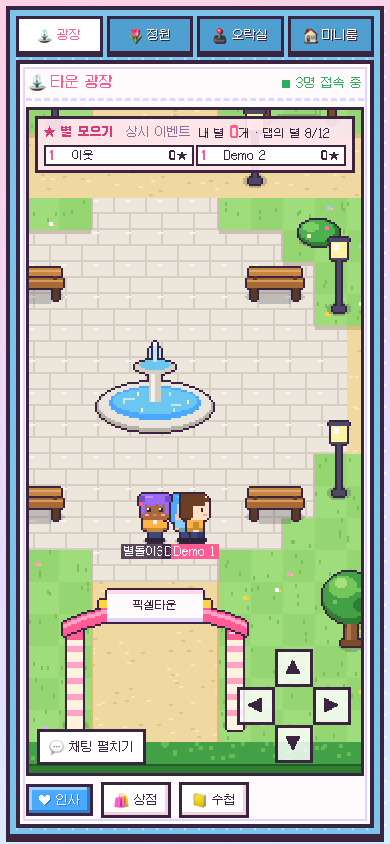
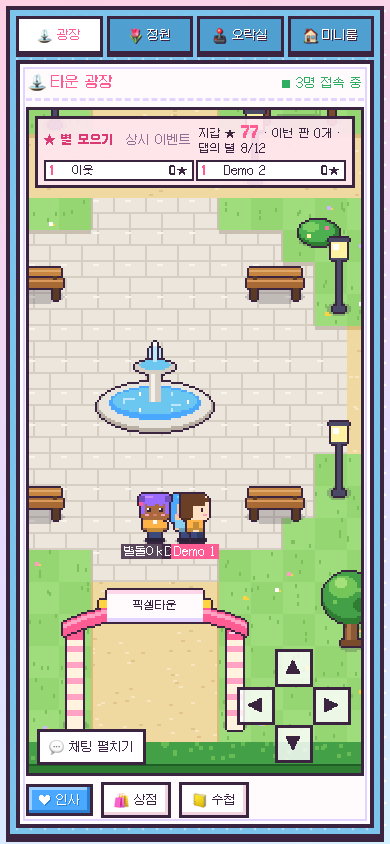
기능: 별을 먹는 즉시 지갑에 반영, 정산 대기 표시, "+1" 효과
별 보상이 3분 정산 뒤에야 지갑에 보여서 먹은 개수를 알 수 없었다. 저장
구조(주기별 결과·보상, outbox, match_id 멱등)는 그대로 두고 화면만 바꿨다.

- 주기별 내 점수 기록(snapshot·gameEnded) → 지갑 = 저장분 + 아직 inventory에
  없는 주기 점수. 정산·저장 뒤에도 숫자가 그대로
- "(정산 대기 n)" 표시, 상점은 저장분만 쓰고 대기분 안내
- 떠난 장소의 정산도 반영되도록 대기분이 있는 동안 20초마다 기록 재조회
- 수집 순간 "+1" 0.8초
- tests/wallet-check.mjs 추가(수집 즉시·정산 후 유지·장소 이동 후 유지)

검증: wallet-check 로컬 2회 PASS, UI 8/8.

diff --git a/game/src/main.jsx b/game/src/main.jsx
@@ -70,6 +70,8 @@ function App() {
   const stall = useRef({ x: 0, y: 0, n: 0 }), route = useRef([]), marker = useRef(null), state = useRef({ players: [], game: {} }), bubbles = useRef({}), emotes = useRef({});
   const trails = useRef({}), selfId = useRef("me"), soloPos = useRef(null), entry = useRef("default"), portalArmed = useRef(false), chatVisible = useRef(chatOpen);
   const [joinTry, setJoinTry] = useState(0), rejoining = useRef(false), lastAutoJoin = useRef(0);
+  // Stars I collected that are not in my inventory yet (settled every 3 minutes): period id -> my score in it.
+  const ledger = useRef({});
   const picked = useRef({}), corrections = useRef([]), persistStatus = useRef(null), chatInput = useRef(null), lastSent = useRef("");
   const profile = records.profiles[0], outfit = profile?.outfit || {};
   // First entry (FR-014): a signed-in user whose profile has no chosen look makes a character before joining a room.
@@ -78,6 +80,15 @@ function App() {
   const myLook = { ...outfit, ...profile?.avatar };
   const owned = useMemo(() => new Set(records.purchases.map(p => p.item)), [records.purchases]);
   const earned = records.inventory.reduce((n, i) => n + (i.quantity || 0), 0), wallet = earned - records.purchases.reduce((n, p) => n + (p.price || 0), 0);
+  // The wallet shows a star the moment the server counts it; the part not saved yet cannot be spent until settlement.
+  const savedPeriods = new Set(records.inventory.map(i => i.match_id));
+  const unsaved = Object.entries(ledger.current).reduce((n, [id, k]) => n + (savedPeriods.has(id) ? 0 : k), 0);
+  // Settlement happens in whichever zone room the stars were collected, maybe one I already left: look for it now and then.
+  useEffect(() => {
+    if (!unsaved) return;
+    const poll = setInterval(loadRecords, 20000);
+    return () => clearInterval(poll);
+  }, [unsaved > 0]);
   const placements = edit ? edit.placements : Array.isArray(profile?.room) ? profile.room : [];
   const home = useMemo(() => homeMap(placements), [JSON.stringify(placements)]);
   const map = zone === "home" ? home : getMap(zone), mapRef = useRef(map), profileRef = useRef(profile);
@@ -178,6 +189,8 @@ function App() {
           setPred(p, !pred.current || Math.hypot(p.x - pred.current.x, p.y - pred.current.y) > 40);
         }
         for (const p of data.players) if (p.id !== user.id) { const b = (trails.current[p.id] ||= []); b.push({ t: data.t, x: p.x, y: p.y }); if (b.length > 40) b.shift(); }
+        const my = data.game?.scores?.[user.id];
+        if (data.game?.id && my) ledger.current[data.game.id] = Math.max(ledger.current[data.game.id] || 0, my);
         state.current = data; setSnap(data);
         const p = data.persistence;
         if (p?.status === "saved" && persistStatus.current === "pending") { loadRecords(); notify("기록과 별 보상이 저장되었어요! 수첩에서 확인하세요."); }
@@ -185,7 +198,7 @@ function App() {
       });
       r.onMessage("chat", d => !cancelled && append({ id: d.id, name: d.name || "이웃", text: d.text, mine: d.id === user.id }));
       r.onMessage("emote", d => { if (!cancelled) emotes.current[d.id] = Date.now() + 2500; });
-      r.onMessage("gameEnded", m => { const n = m.scores?.[user.id]; if (n) { persistStatus.current = "pending"; notify(`별 ${n}개 정산! 기록을 저장하는 중이에요.`); } });
+      r.onMessage("gameEnded", m => { const n = m.scores?.[user.id]; if (n) ledger.current[m.match_id] = n; if (n) { persistStatus.current = "pending"; notify(`별 ${n}개 정산! 기록을 저장하는 중이에요.`); } });
       // While the socket is down nothing moves or predicts on its own and a dialog blocks the page.
       // 1. Drop: the SDK reconnects into the same server session (kept 15 s), so nothing is lost.
       // 2. That fails (session gone, socket refused) or hangs: join again automatically; the login is still valid.
@@ -316,7 +329,7 @@ function App() {
         if (me && touchesStar(me, star)) { picked.current[star.id] = { until: now + 1000, at: now, x: star.x, y: star.y }; return false; }
         return true;
       }) : [];
-      const pops = Object.values(picked.current).filter(p => now - p.at < 400);
+      const pops = Object.values(picked.current).filter(p => now - p.at < 800);
       view.draw(sc, { focus: me, avatars, stars, pops, time: t, dt, marker: marker.current });
       raf = requestAnimationFrame(frame);
     };
@@ -410,7 +423,7 @@ function App() {
   const starCard = (
     <section className="star-card" aria-label="별 모으기">
       <div className="star-card-head"><b>★ 별 모으기</b><span className="muted">상시 이벤트</span></div>
-      <p className="star-line">내 별 <b>{myScore}</b>개 · 맵의 별 {game.stars?.length || 0}/12</p>
+      <p className="star-line">지갑 ★ <b className="wallet-live">{wallet + unsaved}</b>{unsaved > 0 && <span className="pending" title="정산되면 상점에서 쓸 수 있어요"> (정산 대기 {unsaved})</span>} · 이번 판 {myScore}개 · 맵의 별 {game.stars?.length || 0}/12</p>
       <p className="star-line muted">{game.active ? `다음 정산까지 ${clock}` : "별 가까이 걸어가면 모아요"}</p>
       {ranking.length > 0 && <ol className="ranking">{ranking.slice(0, 3).map(p => <li key={p.id} className={p.id === selfId.current ? "mine" : ""}><span>{ranking.filter(q => q.score > p.score).length + 1}</span>{p.name}<b>{p.score}★</b></li>)}</ol>}
       {saving && <p className="save-state" role="status">{snap.persistence.lastError ? "기록 저장 재시도 중…" : "기록 저장 중…"}</p>}
@@ -420,11 +433,11 @@ function App() {
     <main className="page">
       <div className="hompy">
         <aside className="profile paper">
-          <div className="today">TODAY <b>{online}</b> <span>|</span> TOTAL <b>{totalStars}</b></div>
+          <div className="today">TODAY <b>{online}</b> <span>|</span> TOTAL <b>{totalStars + unsaved}</b></div>
           <Portrait player={me} />
           <h2 className="me-name">{me.name}</h2>
           <p className="mood">♪ {zoneInfo[3]}</p>
-          <div className="row-badges"><span className="stars-badge" title="쓸 수 있는 별">지갑 ★ {wallet}</span></div>
+          <div className="row-badges"><span className="stars-badge" title={unsaved ? `쓸 수 있는 별 ${wallet} + 정산 대기 ${unsaved}` : "쓸 수 있는 별"}>지갑 ★ {wallet + unsaved}</span></div>
           {zone !== "home" && starCard}
           <button className="btn wide" onClick={openShop}>🛍 별 상점 · 옷장</button>
           <button className="btn ghost wide" onClick={() => setSetup(true)}>🎨 캐릭터 꾸미기</button>
@@ -478,7 +491,7 @@ function App() {
           {status === "disconnected" && <div className="notebook-foot"><button className="btn wide" autoFocus onClick={() => { rejoining.current = true; setJoinTry(n => n + 1); }}>다시 연결</button></div>}
         </div>
       </div>}
-      {shop && <Shop {...{ wallet, owned, outfit, buy, wear, me, close: () => setShop(false) }} />}
+      {shop && <Shop {...{ wallet, unsaved, owned, outfit, buy, wear, me, close: () => setShop(false) }} />}
       {notebook && <Notebook {...{ records, recordError, loadRecords, me, close: () => setNotebook(false) }} />}
       {setup && <CharacterSetup profile={profile} userId={user.id} save={saveCharacter} close={() => setSetup(false)} />}
     </main>
@@ -531,13 +544,14 @@ function ItemIcon({ item, player }) {
   return <canvas ref={ref} width={64} height={64} className="item-icon" aria-hidden="true" />;
 }
 
-function Shop({ wallet, owned, outfit, buy, wear, me, close }) {
+function Shop({ wallet, unsaved, owned, outfit, buy, wear, me, close }) {
   const [tab, setTab] = useState("hat"), [busy, setBusy] = useState("");
   const run = async (id, fn) => { setBusy(id); try { await fn(); } finally { setBusy(""); } };
   return (
     <div className="sheet-backdrop" onClick={close}>
       <aside className="notebook shop paper" role="dialog" aria-label="별 상점" onClick={e => e.stopPropagation()}>
-        <div className="notebook-head"><b>🛍 별 상점 · 옷장</b><span className="stars-badge">지갑 ★ {wallet}</span><button className="btn tiny ghost" onClick={close} aria-label="상점 닫기">닫기</button></div>
+        <div className="notebook-head"><b>🛍 별 상점 · 옷장</b><span className="stars-badge" title="쓸 수 있는 별">지갑 ★ {wallet}</span><button className="btn tiny ghost" onClick={close} aria-label="상점 닫기">닫기</button></div>
+        {unsaved > 0 && <p className="shop-pending">정산 대기 ★{unsaved}: 3분마다 정산되면 쓸 수 있어요.</p>}
         <div className="shop-tabs" role="tablist">{SLOTS.map(([id, label]) => <button key={id} role="tab" aria-selected={tab === id} onClick={() => setTab(id)}>{label}</button>)}</div>
         <div className="notebook-body shop-grid">
           {CATALOG.items.filter(i => i.slot === tab).map(i => {

diff --git a/game/src/render.js b/game/src/render.js
@@ -96,6 +96,7 @@ function draw(view, sc, f, lc, dc, display) {
   }
   for (const p of sc.fg) lc.drawImage(propSprite(p), p.visual.x - 1 - cx, p.visual.y - 1 - cy);
   for (const p of f.pops || []) { // star pickup sparkle: four dots fly out from the star for 0.4s
+    if (Date.now() - p.at >= 400) continue;
     const k = Math.min(1, (Date.now() - p.at) / 400), r = 3 + Math.round(k * 9), x = p.x - cx, y = p.y - 10 - cy;
     lc.globalAlpha = 1 - k; lc.fillStyle = '#ffd23f';
     for (const [dx, dy] of [[r, 0], [-r, 0], [0, r], [0, -r]]) lc.fillRect(x + dx - 1, y + dy - 1, 2, 2);
@@ -130,6 +131,10 @@ function draw(view, sc, f, lc, dc, display) {
     dc.fillText(p.label, sx, sy);
   }
   dc.font = `${fs}px Galmuri11, monospace`;
+  for (const p of f.pops || []) { // "+1" rises over a picked star for 0.8 s
+    const k = Math.min(1, (Date.now() - p.at) / 800), [sx, sy] = S(p.x, p.y - 20 - k * 10);
+    dc.globalAlpha = 1 - k * k; dc.fillStyle = LINE; dc.fillText('+1', sx + u, sy + u); dc.fillStyle = '#ffd23f'; dc.fillText('+1', sx, sy); dc.globalAlpha = 1;
+  }
   for (const a of f.avatars) {
     const [sx, sy] = S(Math.floor(a.x), Math.floor(a.y)); // same whole-pixel spot as the sprite
     const w = Math.ceil(dc.measureText(a.name).width) + pad * 2, h = fs + pad + u;

diff --git a/game/src/style.css b/game/src/style.css
@@ -80,6 +80,8 @@ kbd { display: inline-block; padding: 0 4px; border: 2px solid var(--line); back
 .timer { padding: 0 6px; background: var(--line); color: var(--star); font-weight: 700; }
 .star-line { margin: 0; font-size: 12px; }
 .star-line b { color: var(--pink); font-size: 14px; }
+.star-line .pending { color: var(--muted); font-size: 11px; }
+.shop-pending { margin: 0; padding: 6px 12px; font-size: 12px; color: var(--muted); border-bottom: 3px dashed var(--dash); }
 .ranking { list-style: none; margin: 0; padding: 0; display: flex; flex-direction: column; gap: 2px; font-size: 12px; }
 .ranking li { display: flex; gap: 6px; align-items: center; padding: 1px 4px; background: #fff; border: 2px solid var(--line); }
 .ranking li.mine { background: var(--star-l); }

diff --git a/docs/02_TECH_SPEC.md b/docs/02_TECH_SPEC.md
@@ -236,3 +236,12 @@ macOS start.command도 로컬 실행 진입점이다. dev:all은 기본 PB 18090
 - 측정: `tests/rollback-check.mjs`(장소 안에서 무작위 클릭·방향키를 섞어 `SECONDS` 동안, `HOPS`로 장소 이동 반복, `JITTER` 가능). 보정(0.5도트 초과) 0회가 기준이다.
 - 연결이 1–2초씩 멈추는 환경(배포 주소 측정에서 미확인 입력 40개)에서는 서버가 아무리 빨리 따라잡아도, 클라이언트가 멈춘 동안 계속 앞서 예측하면 대기열 한도를 넘어 롤백이 난다. 클라이언트는 서버가 확인하지 않은 입력이 `MAX_QUEUED_INPUTS - 4`(16, 0.8초)에 이르면 입력 전송과 예측을 멈추고 제자리에서 기다린다. 확인이 오면 다시 움직인다. 연결이 멈추면 캐릭터가 잠깐 서고 뒤로 튀지 않는다. `MAX_QUEUED_INPUTS`는 `shared/world.js`에 두고 서버·클라이언트가 같이 쓴다.
 
+## 지갑 즉시 반영 (2026-10-02)
+
+- 저장 구조는 그대로다. 서버는 3분마다 그 주기 점수를 결과·보상(inventory, `match_id`)으로 한 번에 저장한다.
+- 화면: 클라이언트가 snapshot과 `gameEnded`에서 주기별 내 점수를 기록한다(`ledger`, 주기 id → 점수). 지갑 표시 = 저장된 지갑 + inventory에 아직 없는 주기 점수의 합이다. 그래서 별을 먹는 즉시 지갑이 오르고, 정산·저장 뒤에도 숫자가 그대로다(같은 `match_id` 행이 생기면 대기분에서 빠진다).
+- 정산 대기분은 "(정산 대기 n)"으로 표시한다. 상점은 쓸 수 있는 별(저장분)만 쓰고, 대기분은 따로 안내한다.
+- 이미 떠난 장소에서 정산될 별도 있으므로, 대기분이 있는 동안 20초마다 기록을 다시 읽는다.
+- 별을 먹는 순간 노란 점 효과와 함께 "+1"이 0.8초 동안 떠오른다.
+- 측정: `tests/wallet-check.mjs`(짧은 `GAME_DURATION_MS` 서버 권장, 배포 주소는 `SETTLE_MS=200000`).
+

diff --git a/docs/verification.md b/docs/verification.md
@@ -294,3 +294,9 @@ Demo 1이 오락실에 들어가자 시작 버튼 없이 바로 진행 중이었
 - 배포 주소 재측정(크레딧 상한 20): 오락실 60초 35회·0회, 지연 300ms 14회. 모두 미확인 입력 40개 = 이 컴퓨터 연결이 1–2초씩 멈춘 구간. 원인 5: 멈춘 동안 클라이언트가 계속 앞서 예측해 대기열 한도를 넘음. 미확인 입력 16개에서 예측을 멈추게 했다. 로컬 `JITTER=1500`(메시지마다 최대 1.5초 지연) 60초: 이전 클라이언트 보정 100회(최대 38.6도트) → 새 클라이언트 0회. `JITTER=3000`도 0회.
 - 배포 주소 최종(`abebbb7`, Pages 번들에 멈춤 조건 확인): 오락실 60초 2회 보정 0·0, 추가 지연 300ms 60초 보정 0.
 
+## 20. 지갑 즉시 반영 (2026-10-02)
+
+- 사용자 피드백: 별을 먹어도 바로 오르지 않고 3분 뒤 한 번에 정산된다. 유일한 보상 피드백인데 개수를 알 수 없다.
+- 로컬(`GAME_DURATION_MS=20000`) `tests/wallet-check.mjs` PASS 2회: 수집 즉시 지갑 71→72, 정산 대기 표시, 상점 쓸 수 있는 별 71과 "정산 대기 ★1" 안내, 정산 뒤 72 유지(관측값 72만). 먹고 바로 정원으로 옮겨도 74 유지, 이전 방 정산 뒤에도 74.
+- UI 8/8(기본 3분 정산). 모바일 화면에서 별 안내가 두 줄로 들어간다.
+
